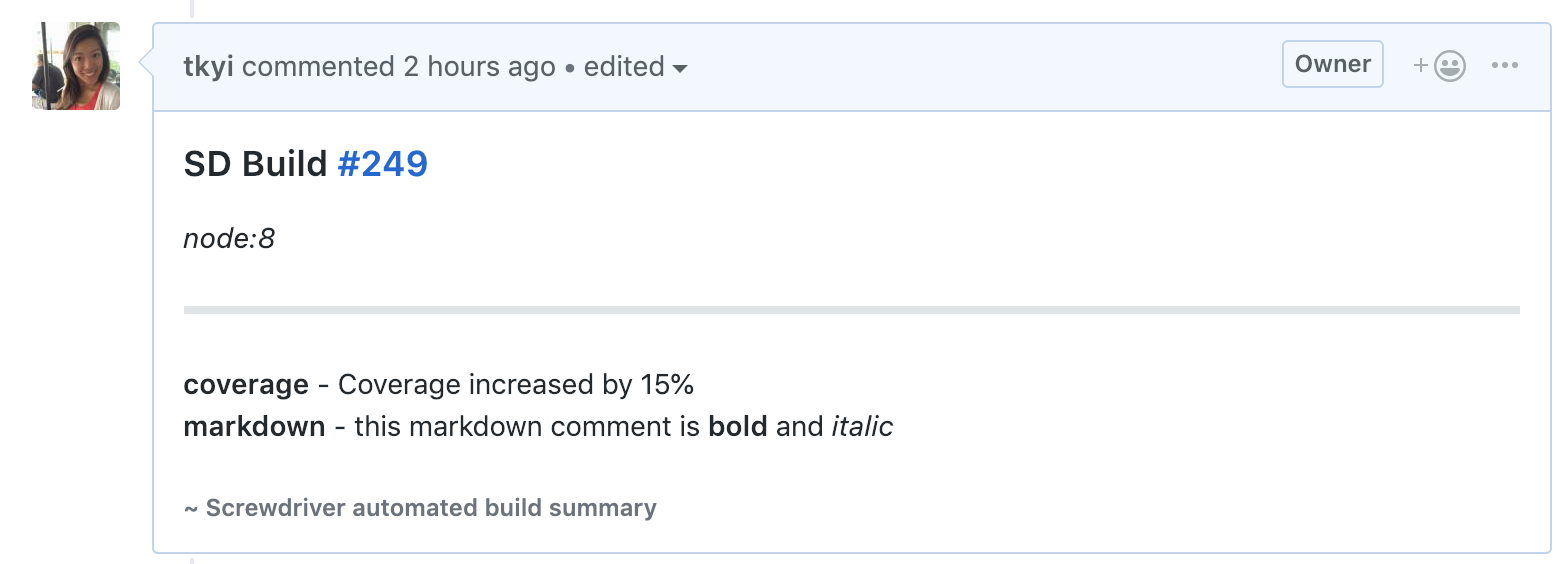
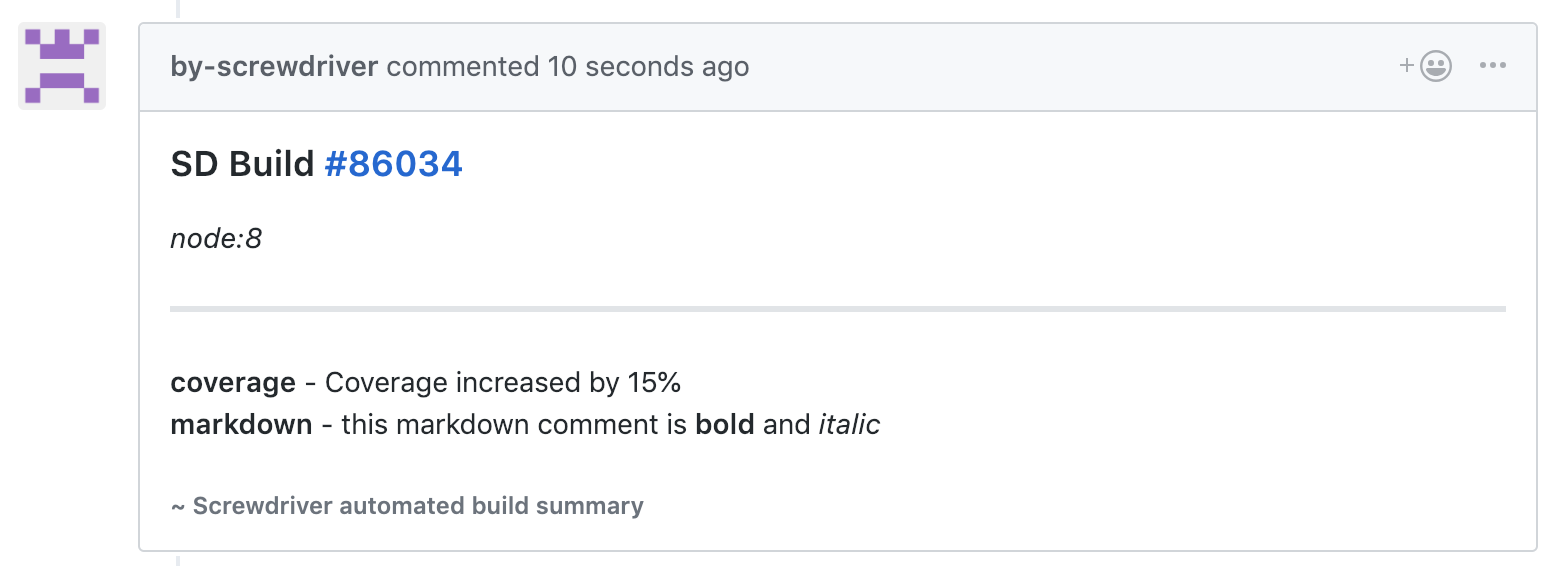
fix(1355): Update meta PR comments docs (#265)

diff --git a/docs/cluster-management/configure-api.md b/docs/cluster-management/configure-api.md
@@ -437,9 +437,7 @@ notifications:
 
 ### Source Control Plugin
 
-We currently support [Github and Github Enterprise](https://github.com/screwdriver-cd/scm-github), [Bitbucket.org](https://github.com/screwdriver-cd/scm-bitbucket), and [Gitlab](https://github.com/bdangit/scm-gitlab)
-
-_Note: Gitlab is a user-created plugin_
+We currently support [Github and Github Enterprise](https://github.com/screwdriver-cd/scm-github), [Bitbucket.org](https://github.com/screwdriver-cd/scm-bitbucket), and [Gitlab](https://github.com/bdangit/scm-gitlab).
 
 #### Step 1: Set up your OAuth Application
 You will need to set up an OAuth Application and retrieve your OAuth Client ID and Secret.
@@ -474,10 +472,14 @@ scms:
             gheHost: github.screwdriver.cd # [Optional] GitHub enterprise host
             username: sd-buildbot # [Optional] Username for code checkout
             email: dev-null@screwdriver.cd # [Optional] Email for code checkout
+            commentUserToken: A_BOT_GITHUB_PERSONAL_ACCESS_TOKEN # [Optional] Token for writing PR comments in Github, needs "public_repo" scope
             privateRepo: false # [Optional] Set to true to support private repo; will need read and write access to public and private repos (https://developer.github.com/v3/oauth/#scopes)
 ```
 
 If users want to use private repo, they also need to set up `SCM_USERNAME` and `SCM_ACCESS_TOKEN` as [secrets](../../user-guide/configuration/secrets) in their `screwdriver.yaml`.
+
+In order to enable [meta PR comments](../user-guide/metadata.md), you’ll need to create a bot user in Git with a personal access token with the `public_repo` scope. In Github, create a new user. Follow instructions to [create a personal access token](https://help.github.com/articles/creating-a-personal-access-token-for-the-command-line), set the scope as `public_repo`. Copy this token and set it as `commentUserToken` in your `scms` settings in your [API config yaml](https://github.com/screwdriver-cd/screwdriver/blob/master/config/custom-environment-variables.yaml#L268-L269).
+
 
 ##### Bitbucket.org
 ```yaml

diff --git a/docs/user-guide/metadata.md b/docs/user-guide/metadata.md
@@ -64,18 +64,25 @@ Notes:
 - If the `--external` flag did not trigger the build, then meta will not be set.
 
 ### Pull Request Comments
-You can write comments to pull requests in Git with metadata information. The contents of the comments should be written to the meta summary object from your pipeline's PR build.
+You can write comments to pull requests in Git from a Screwdriver build through using metadata. The contents of the comments should be written to the meta summary object from your pipeline's PR build.
 
-To write out metadata to a pull request, you just need to set the `meta.summary` meta object with desired information. This data will show up as a comment in Git by the pipeline administrator.
+To write out metadata to a pull request, you just need to set `meta.summary` with desired information. This data will show up as a comment in Git by a headless Git user.
 
-For example, to add a coverage description:
+For example, to add a coverage description, your screwdriver.yaml should look something like below:
+
 ```
-meta set meta.summary.coverage "Coverage increased by 15%"
+jobs:
+  main:
+    steps:
+      - comment: meta set meta.summary.coverage "Coverage increased by 15%"
 ```
 
-You can also write things in markdown syntax by setting `meta.summary.markdown`:
+You can also write things in markdown syntax as shown in the following example:
 ```
-meta set meta.summary.markdown "this markdown comment is **bold** and *italic*"
+jobs:
+  main:
+    steps:
+      - comment: meta set meta.summary.markdown "this markdown comment is **bold** and *italic*"
 ```
 These settings will result in a Git comment that looks like:
 
